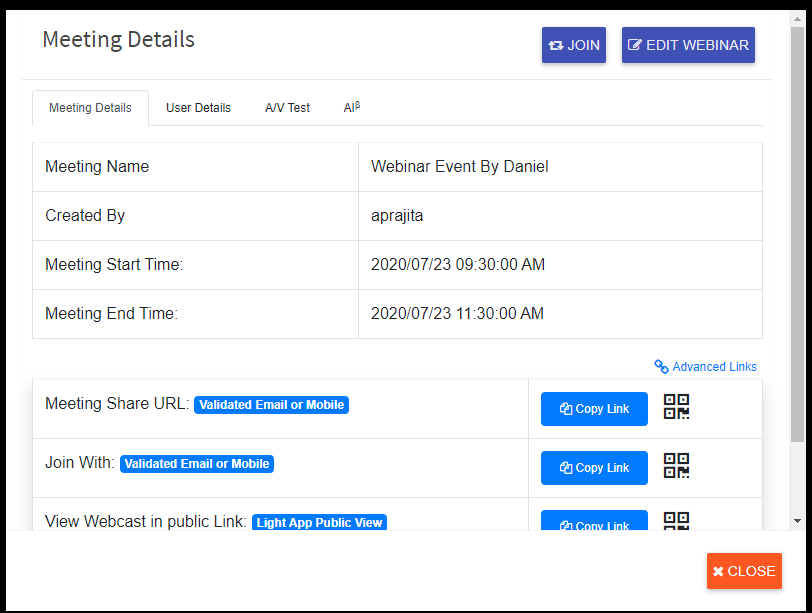
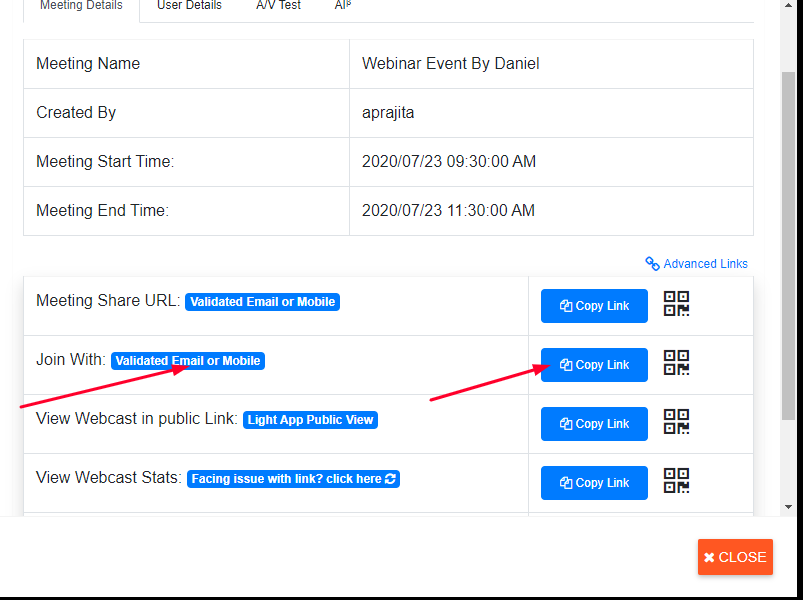
GitBook: [master] one page and 9 assets modified

diff --git a/schedule-my-webinar.md b/schedule-my-webinar.md
@@ -52,17 +52,40 @@ In The Calendar And Notification Bar You Can Click On The Sceduled Event And Sta
 
 Copy The Links And Share And Join
 
-![](.gitbook/assets/image%20%28304%29.png)
+![](.gitbook/assets/image%20%28313%29.png)
 
 Share Meeting URL 
 
 ![](.gitbook/assets/image%20%28301%29.png)
 
+Sign in and Join The Meeting
+
+![](.gitbook/assets/image%20%28309%29.png)
+
+By Copying Link Of Validated Email Or Mobile You can Join The Meeting From Android
+
+![](.gitbook/assets/image%20%28304%29.png)
+
+By Copying Link Of Light App Public View User Can Join Istudio Light
+
+![](.gitbook/assets/image%20%28312%29.png)
+
+![](.gitbook/assets/image%20%28306%29.png)
+
+View Webcast Stats Where You Can Find The Likes ,Dislikes And Views Click This Link
+
+![](.gitbook/assets/image%20%28308%29.png)
+
+![](.gitbook/assets/image%20%28311%29.png)
+
+If You Want To View Chats Click On This Link  
 
 
-By Cl
+![](.gitbook/assets/image%20%28310%29.png)
 
 
+
+![](.gitbook/assets/image%20%28305%29.png)
 
 For mobile users to see webinar Scan QR code link is provided
 
